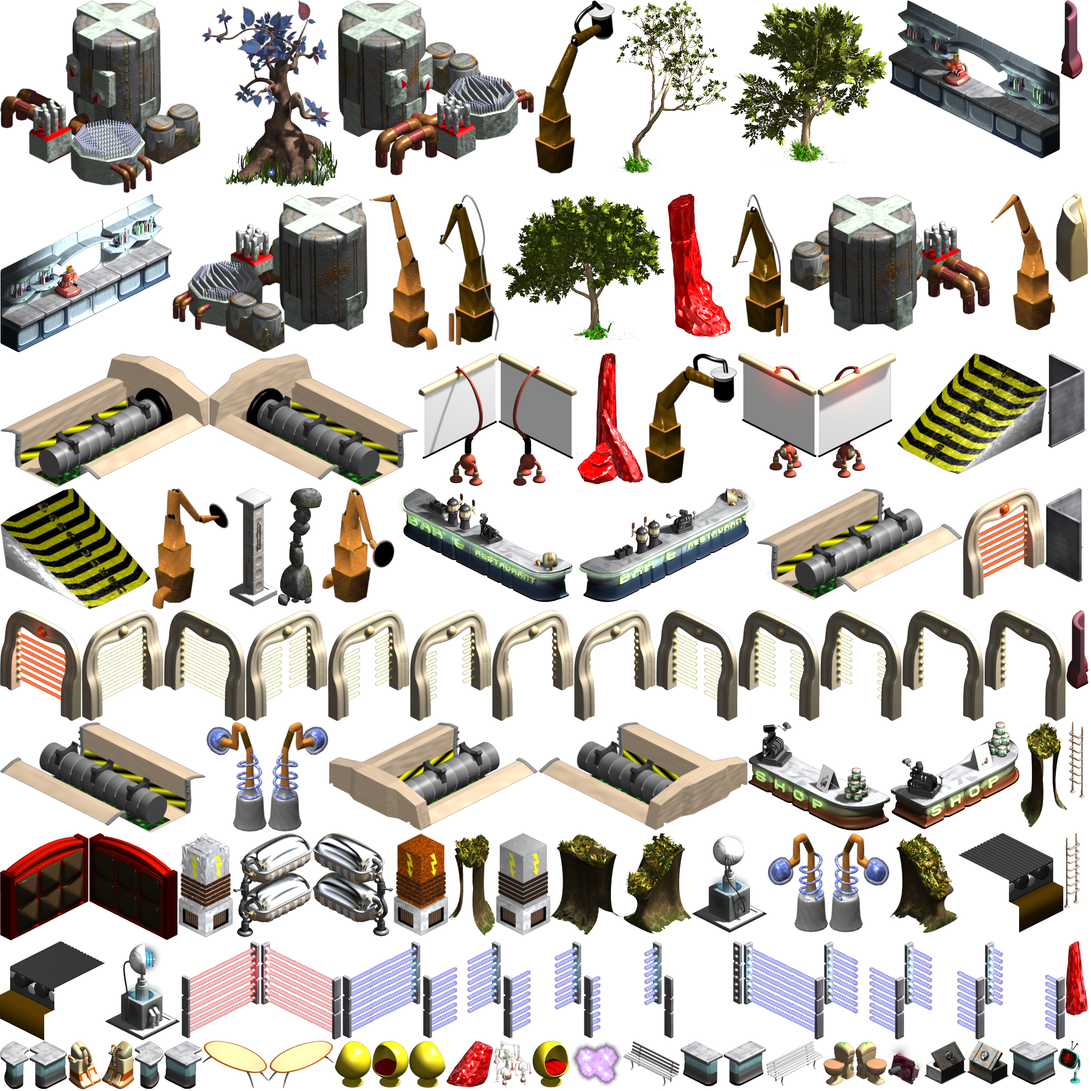
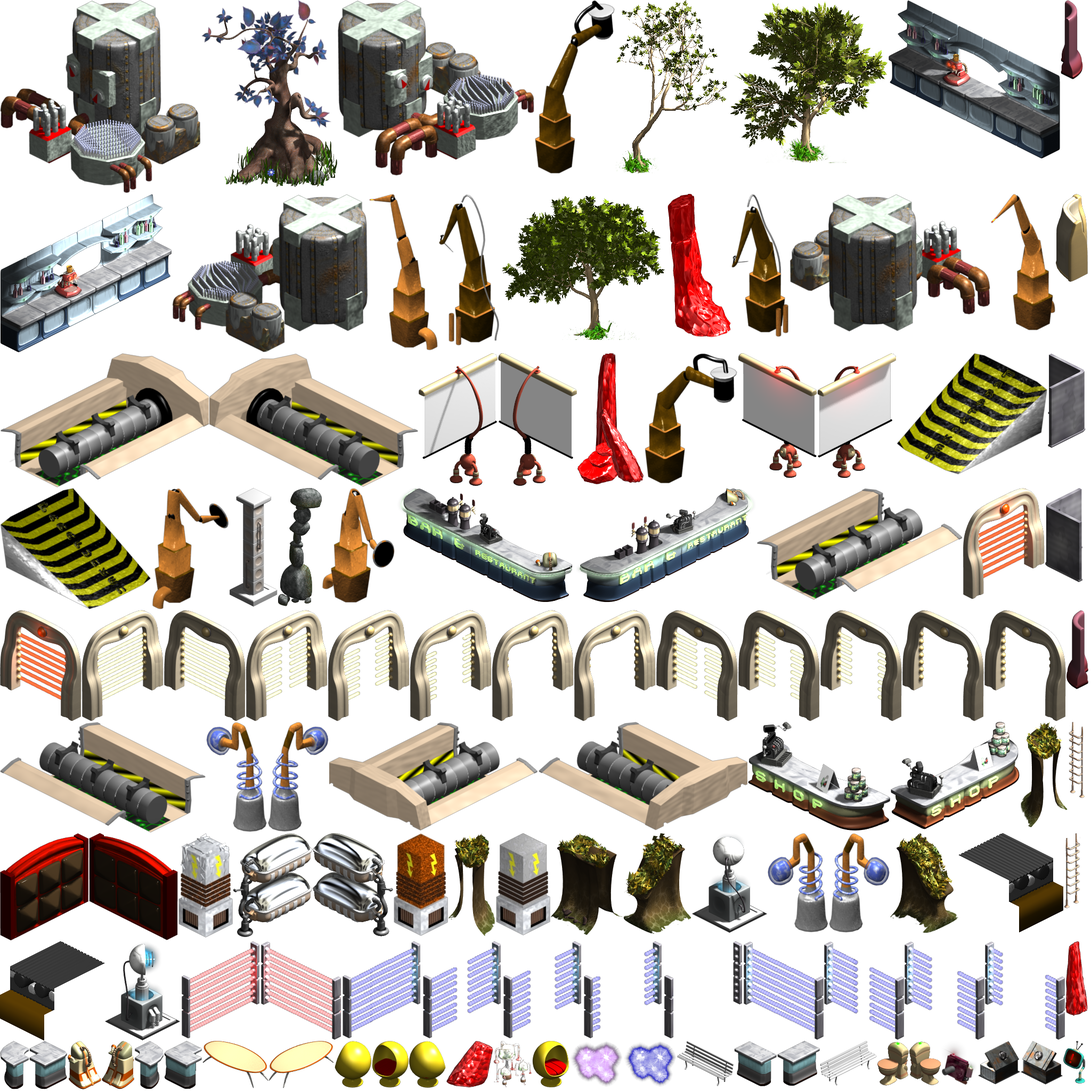
teleport: free reverse
Before, to reverse the teleportation to town, we needed to use the Sanctuary skill (costs heat) or a Teleport Homing Beacon (costs the item).
The new implementation allows Tux to teleport back to the exit location outside of the town by walking into the teleporter located in  town.
The color of the town teleporter changes to blue if we can travel back for free.

Changed region(s): [[0.5625, 0.9375, 1.0, 1.0]]

diff --git a/src/skills.c b/src/skills.c
@@ -210,7 +210,7 @@ FreedroidRPG could not find the program name above in the program spec array!", 
  * This function creates a teleporter portal to the home location.
  * @return 1 on success, 0 on failure
  */
-static int TeleportHome(void)
+int TeleportHome(void)
 {
 	location HomeSpot;
 
@@ -233,7 +233,7 @@ static int TeleportHome(void)
 	// Case 1 : Tux is in homespot's level, and there is a teleport anchor
 	//          -> teleport back to previous position
 	//
-	if (Me.pos.z == HomeSpot.level && ((Me.teleport_anchor.x != 0) || (Me.teleport_anchor.y != 0))) {
+	if (Me.pos.z == HomeSpot.level && (Me.teleport_anchor.z != -1)) {
 
 		// Teleport
 		teleport_arrival_sound();
@@ -244,7 +244,10 @@ static int TeleportHome(void)
 		// Reset teleport anchor
 		Me.teleport_anchor.x = 0;
 		Me.teleport_anchor.y = 0;
-		Me.teleport_anchor.z = 0;
+		Me.teleport_anchor.z = -1;
+		
+		// Toggle the color of teleporter (purple)
+		change_obstacle_type("Town-Teleporter", ISO_TELEPORTER_1);
 
 		return 1;
 	}
@@ -254,6 +257,9 @@ static int TeleportHome(void)
 	Me.teleport_anchor.x = Me.pos.x;
 	Me.teleport_anchor.y = Me.pos.y;
 	Me.teleport_anchor.z = Me.pos.z;
+	
+	// Toggle the color of teleporter (blue)
+	change_obstacle_type("Town-Teleporter", ISO_TELEPORTER_2);
 
 	teleport_arrival_sound();
 	reset_visible_levels();

diff --git a/src/lua.c b/src/lua.c
@@ -148,6 +148,24 @@ static int lua_event_teleport_npc(lua_State * L)
 	return 0;
 }
 
+static int lua_event_teleport_home(lua_State * L)
+{
+	TeleportHome();
+
+	return 0;
+}
+
+ 
+static int lua_event_has_teleport_anchor(lua_State * L)
+{
+	if (Me.teleport_anchor.z != -1)
+		lua_pushboolean(L, TRUE);
+	else
+		lua_pushboolean(L, FALSE);
+
+	return 1;
+}
+
 static int lua_event_display_big_message(lua_State * L)
 {
 	const char *msg = luaL_checkstring(L, 1);
@@ -991,6 +1009,16 @@ luaL_Reg lfuncs[] = {
 	 * Teleports the current npc, or named npc to the given map label
 	 */
 	{"teleport_npc", lua_event_teleport_npc}
+	,
+	/* teleport_home(string map_label) 
+	 * Teleports the player to the home.
+	 */
+	{"teleport_home", lua_event_teleport_home}
+	,
+	/* has_teleport_anchor()
+	 * Return true if a teleport anchor is active.
+	 */
+	{"has_teleport_anchor", lua_event_has_teleport_anchor}
 	,
 	/* display_big_message(string msg)
 	 * Displays a big vanishing message on screen (seen in game, not in the dialog).

diff --git a/src/proto.h b/src/proto.h
@@ -491,6 +491,7 @@ int get_program_index_with_name(const char *);
 int calculate_program_heat_cost(int program_id);
 int CursorIsOnWhichSkillButton(int x, int y);
 void load_skill_icon_if_needed(spell_skill_spec *spec);
+int TeleportHome(void);
 
 // input.c 
 Uint8 *key_state_array;

diff --git a/src/influ.c b/src/influ.c
@@ -1728,7 +1728,7 @@ void init_tux()
 	
 	Me.teleport_anchor.x = 0;
 	Me.teleport_anchor.y = 0;
-	Me.teleport_anchor.z = 0;
+	Me.teleport_anchor.z = -1;
 	
 	enemy_set_reference(&Me.current_enemy_target_n, &Me.current_enemy_target_addr, NULL);
 	

diff --git a/src/defs.h b/src/defs.h
@@ -716,6 +716,7 @@ enum obstacle_types {
 	ISO_V_DOOR_100_OPEN = 15,
 
 	ISO_TELEPORTER_1 = 16,
+	ISO_TELEPORTER_2 = 17,
 
 	ISO_REFRESH_1 = 21,
 
